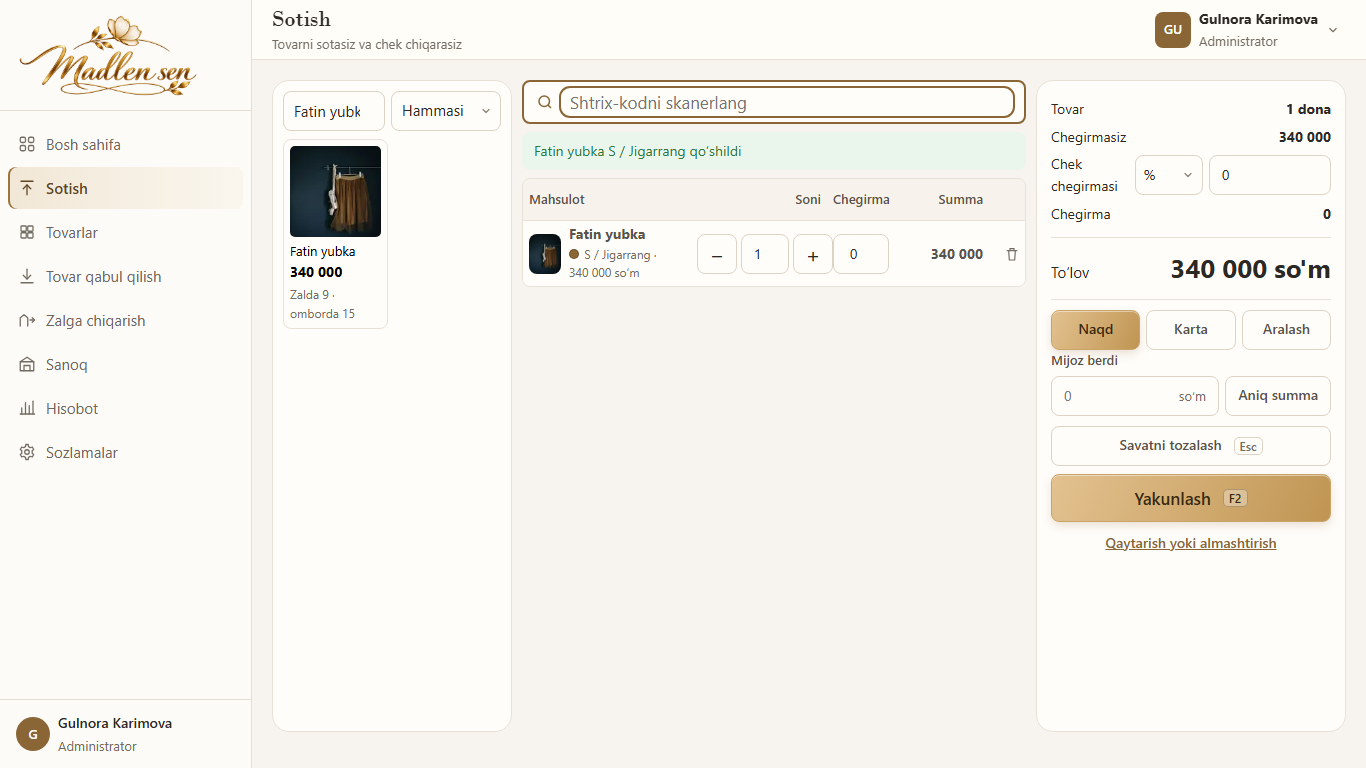
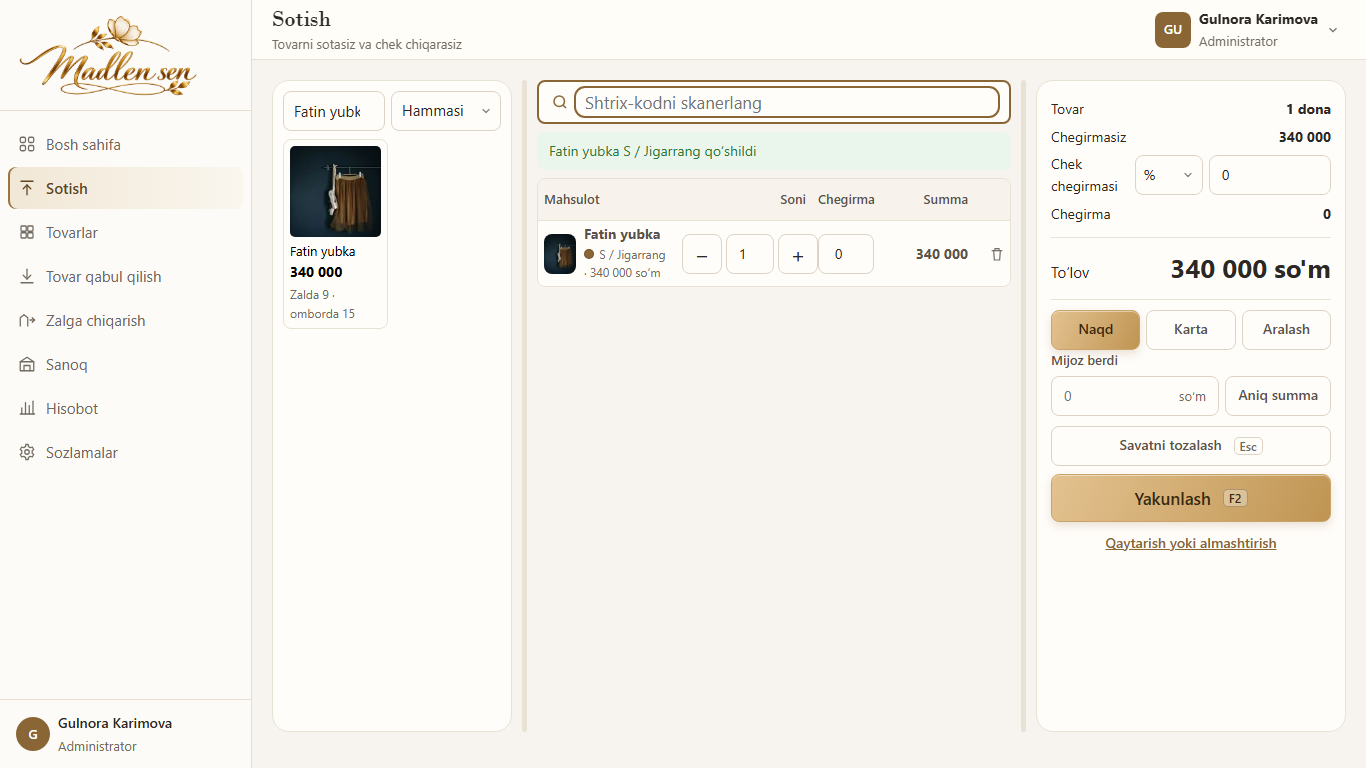
Kassa ustunlari surilib sozlanadi, keng monitorda savat qatori kattaroq
Keng monitorda savat o'rtada kichkina bo'lib qolardi va ikki yonida
bo'sh joy ko'p edi. Kassa kompyuterlari har xil — bitta o'lcham
hammaga to'g'ri kelmaydi.

- Ustunlar orasiga tutqich qo'yildi: sichqoncha bilan suriladi,
  klaviaturada o'q tugmalari 20 px dan siljitadi. Kenglik brauzerda
  saqlanadi, ya'ni har ochilganda qayta sozlash shart emas.
- 1400 px dan keng ekranda savat qatori kattalashadi: surat 56x72,
  nom 18 px. Tor ekranda avvalgidek ixcham qoladi — u yerda joy yo'q.

diff --git a/front/src/views/PosView.vue b/front/src/views/PosView.vue
@@ -41,6 +41,74 @@ const lastSale = ref<Sale | null>(null)
 /** Tor ekranda tanlagich panel bo'lib ochiladi */
 const pickerOpen = ref(false)
 
+/**
+ * Ustun kengliklari — xodim o'zi suradi va brauzerda saqlanadi.
+ *
+ * Kassa kompyuterlari har xil: kimdadir keng monitor, kimdadir 1366 px
+ * noutbuk. Bitta o'lcham hammaga to'g'ri kelmaydi.
+ */
+const PICKER_RANGE = [180, 560] as const
+const SUMMARY_RANGE = [240, 620] as const
+
+const pickerWidth = ref(storedWidth('pos-picker-width', 240, PICKER_RANGE))
+const summaryWidth = ref(storedWidth('pos-summary-width', 310, SUMMARY_RANGE))
+
+function storedWidth(key: string, fallback: number, [min, max]: readonly [number, number]) {
+  try {
+    const saved = Number(localStorage.getItem(key))
+
+    if (saved) return Math.min(max, Math.max(min, saved))
+  } catch {
+    // Saqlash yopiq bo'lsa standart kenglik ishlatiladi
+  }
+
+  return fallback
+}
+
+function remember(key: string, value: number) {
+  try {
+    localStorage.setItem(key, String(value))
+  } catch {
+    // e'tiborsiz
+  }
+}
+
+/** Ajratgichni sichqoncha bilan surish. */
+function startResize(side: 'picker' | 'summary', event: PointerEvent) {
+  const target = side === 'picker' ? pickerWidth : summaryWidth
+  const [min, max] = side === 'picker' ? PICKER_RANGE : SUMMARY_RANGE
+
+  const startX = event.clientX
+  const startWidth = target.value
+
+  // O'ng ustun teskari yo'nalishda kengayadi
+  const direction = side === 'picker' ? 1 : -1
+
+  function move(moving: PointerEvent) {
+    const next = startWidth + (moving.clientX - startX) * direction
+
+    target.value = Math.min(max, Math.max(min, Math.round(next)))
+  }
+
+  function stop() {
+    window.removeEventListener('pointermove', move)
+    remember(side === 'picker' ? 'pos-picker-width' : 'pos-summary-width', target.value)
+  }
+
+  window.addEventListener('pointermove', move)
+  window.addEventListener('pointerup', stop, { once: true })
+}
+
+/** Klaviatura bilan: o'q tugmalari 20 px dan suradi. */
+function nudge(side: 'picker' | 'summary', step: number) {
+  const target = side === 'picker' ? pickerWidth : summaryWidth
+  const [min, max] = side === 'picker' ? PICKER_RANGE : SUMMARY_RANGE
+  const direction = side === 'picker' ? 1 : -1
+
+  target.value = Math.min(max, Math.max(min, target.value + step * direction))
+  remember(side === 'picker' ? 'pos-picker-width' : 'pos-summary-width', target.value)
+}
+
 /** Qaytim katta harflarda — kassir yopmaguncha turadi */
 const changeOpen = ref(false)
 const lastChange = ref('0')
@@ -361,7 +429,10 @@ onBeforeUnmount(() => window.removeEventListener('keydown', onKeydown))
 </script>
 
 <template>
-  <section class="pos">
+  <section
+    class="pos"
+    :style="{ '--picker-width': `${pickerWidth}px`, '--summary-width': `${summaryWidth}px` }"
+  >
     <!-- Tanlagich: yorliq o'qilmasa yoki skaner ishlamasa shu yerdan sotiladi -->
     <aside class="pos-picker" :class="{ open: pickerOpen }">
       <div class="picker-head">
@@ -379,6 +450,18 @@ onBeforeUnmount(() => window.removeEventListener('keydown', onKeydown))
 
       <ProductPicker @pick="onPick" />
     </aside>
+
+    <!-- Ustunlar kengligini xodimning o'zi sozlaydi -->
+    <div
+      class="pos-resizer"
+      role="separator"
+      aria-orientation="vertical"
+      aria-label="Tanlagich kengligi"
+      tabindex="0"
+      @pointerdown.prevent="startResize('picker', $event)"
+      @keydown.left.prevent="nudge('picker', -20)"
+      @keydown.right.prevent="nudge('picker', 20)"
+    />
 
     <!-- Savat -->
     <div class="pos-cart">
@@ -522,6 +605,17 @@ onBeforeUnmount(() => window.removeEventListener('keydown', onKeydown))
         </table>
       </div>
     </div>
+
+    <div
+      class="pos-resizer"
+      role="separator"
+      aria-orientation="vertical"
+      aria-label="Hisob ustuni kengligi"
+      tabindex="0"
+      @pointerdown.prevent="startResize('summary', $event)"
+      @keydown.left.prevent="nudge('summary', -20)"
+      @keydown.right.prevent="nudge('summary', 20)"
+    />
 
     <!-- Hisob va to'lov -->
     <aside class="pos-summary">
@@ -667,7 +761,10 @@ onBeforeUnmount(() => window.removeEventListener('keydown', onKeydown))
    iloji boricha tor, qolgani savatga beriladi */
 .pos {
   display: grid;
-  grid-template-columns: minmax(200px, 240px) minmax(0, 1fr) minmax(270px, 310px);
+  grid-template-columns:
+    var(--picker-width, 240px) 5px
+    minmax(0, 1fr)
+    5px var(--summary-width, 310px);
   gap: 10px;
   height: calc(100vh - var(--topbar-height) - 56px);
 }
@@ -754,6 +851,20 @@ onBeforeUnmount(() => window.removeEventListener('keydown', onKeydown))
   object-fit: cover;
 }
 
+/* Ustunlarni ajratib turuvchi tutqich */
+.pos-resizer {
+  align-self: stretch;
+  border-radius: 3px;
+  background: var(--border);
+  cursor: col-resize;
+  touch-action: none;
+}
+
+.pos-resizer:hover,
+.pos-resizer:focus-visible {
+  background: var(--accent);
+}
+
 /* Tovar ustuni eng keng bo'lsin: nom va rang bir qatorga sig'sin */
 .cart-table td:first-child,
 .cart-table th:first-child {
@@ -763,6 +874,28 @@ onBeforeUnmount(() => window.removeEventListener('keydown', onKeydown))
 .cart-item strong {
   display: block;
   line-height: 1.25;
+}
+
+/* Keng monitorda savat qatori kattalashadi: 1366 px da bunga joy yo'q,
+   kassa kompyuteri keng bo'lsa esa qator uzoqdan ham o'qilsin */
+@media (min-width: 1400px) {
+  .cart-photo {
+    width: 56px;
+    height: 72px;
+  }
+
+  .cart-item strong {
+    font-size: 18px;
+  }
+
+  .cart-item .cell-sub {
+    font-size: 15px;
+  }
+
+  .cart-table td {
+    padding-top: 12px;
+    padding-bottom: 12px;
+  }
 }
 
 /* Rang doirachasi: oq va bej ranglar fonda yo'qolmasin */
@@ -1053,7 +1186,12 @@ onBeforeUnmount(() => window.removeEventListener('keydown', onKeydown))
 /* Planshet va tor ekran: tanlagich panel bo'lib ochiladi */
 @media (max-width: 1280px) {
   .pos {
-    grid-template-columns: minmax(0, 1fr) 320px;
+    grid-template-columns: minmax(0, 1fr) 5px var(--summary-width, 310px);
+  }
+
+  /* Tanlagich panel bo'lgani uchun uning ajratgichi keraksiz */
+  .pos-resizer:first-of-type {
+    display: none;
   }
 
   .pos-picker {
@@ -1078,6 +1216,10 @@ onBeforeUnmount(() => window.removeEventListener('keydown', onKeydown))
   .pos {
     grid-template-columns: 1fr;
     height: auto;
+  }
+
+  .pos-resizer {
+    display: none;
   }
 
   .cart-table-wrap {

diff --git a/front/tests/pos.spec.ts b/front/tests/pos.spec.ts
@@ -218,6 +218,33 @@ test('butunlay omborda yotgan tovar kassada ko‘rinmaydi', async ({ page, reque
   await expect(picker).toContainText('topilmadi')
 })
 
+test('ustunlar surilib kengayadi va kenglik eslab qolinadi', async ({ page }) => {
+  await openPos(page)
+
+  const picker = page.locator('.pos-picker')
+  const handle = page.locator('.pos-resizer').first()
+
+  const before = (await picker.boundingBox())!.width
+  const grip = (await handle.boundingBox())!
+
+  await page.mouse.move(grip.x + grip.width / 2, grip.y + grip.height / 2)
+  await page.mouse.down()
+  await page.mouse.move(grip.x + 120, grip.y + grip.height / 2, { steps: 10 })
+  await page.mouse.up()
+
+  const after = (await picker.boundingBox())!.width
+
+  expect(after, 'tanlagich kengaymadi').toBeGreaterThan(before + 80)
+
+  // Kassa kompyuteri har xil — kenglik brauzerda saqlanadi
+  await page.reload()
+  await expect(picker).toBeVisible()
+
+  const restored = (await picker.boundingBox())!.width
+
+  expect(Math.abs(restored - after), 'kenglik eslab qolinmadi').toBeLessThan(2)
+})
+
 test.describe('kassa ekrani 1366×768', () => {
   test.use({ viewport: { width: 1366, height: 768 } })
 

diff --git a/README.md b/README.md
@@ -101,7 +101,7 @@ cd agent && npm test                                  # 85 ta
 
 ### Interfeys testlari — alohida bazada
 
-Playwright haqiqiy brauzerda ilovani tekshiradi (72 ta): navigatsiya va
+Playwright haqiqiy brauzerda ilovani tekshiradi (73 ta): navigatsiya va
 tuzilma, tovarlar sahifasi, sotish, tovar qabul qilish (uch qadam: yangi
 tovar, o'lcham × rang katakchasi, yorliq), ombordan zalga chiqarish,
 telefon o'lchami, chop etish (sahifalar soni va o'lchami chiqqan PDF dan
